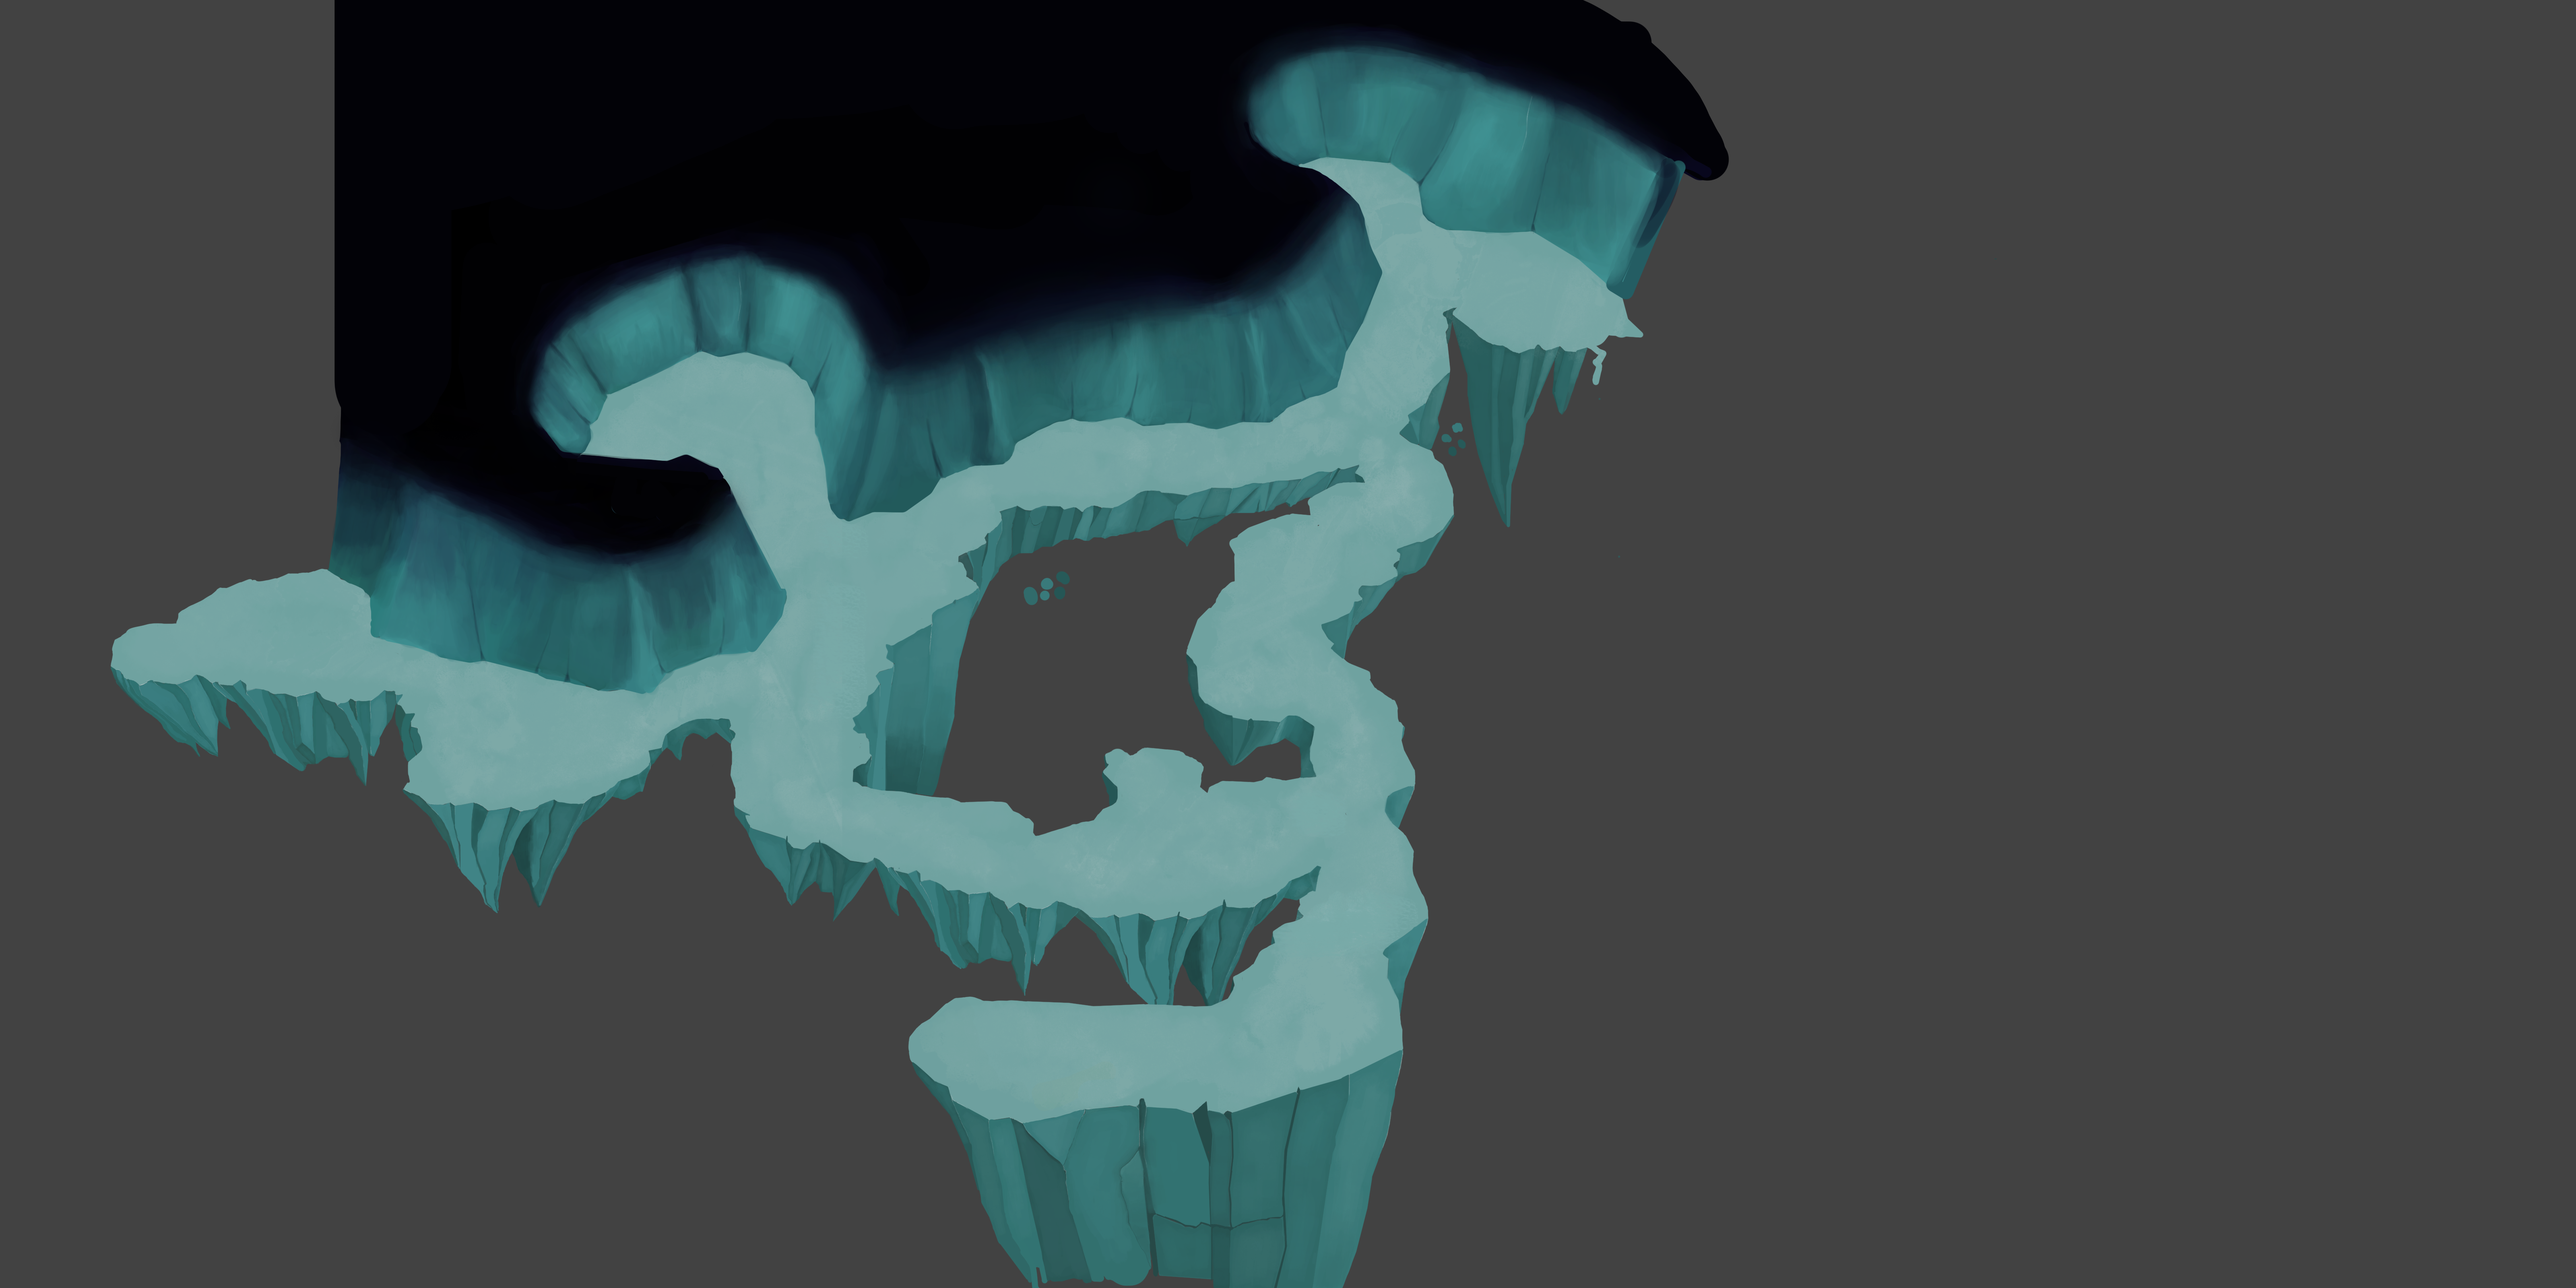
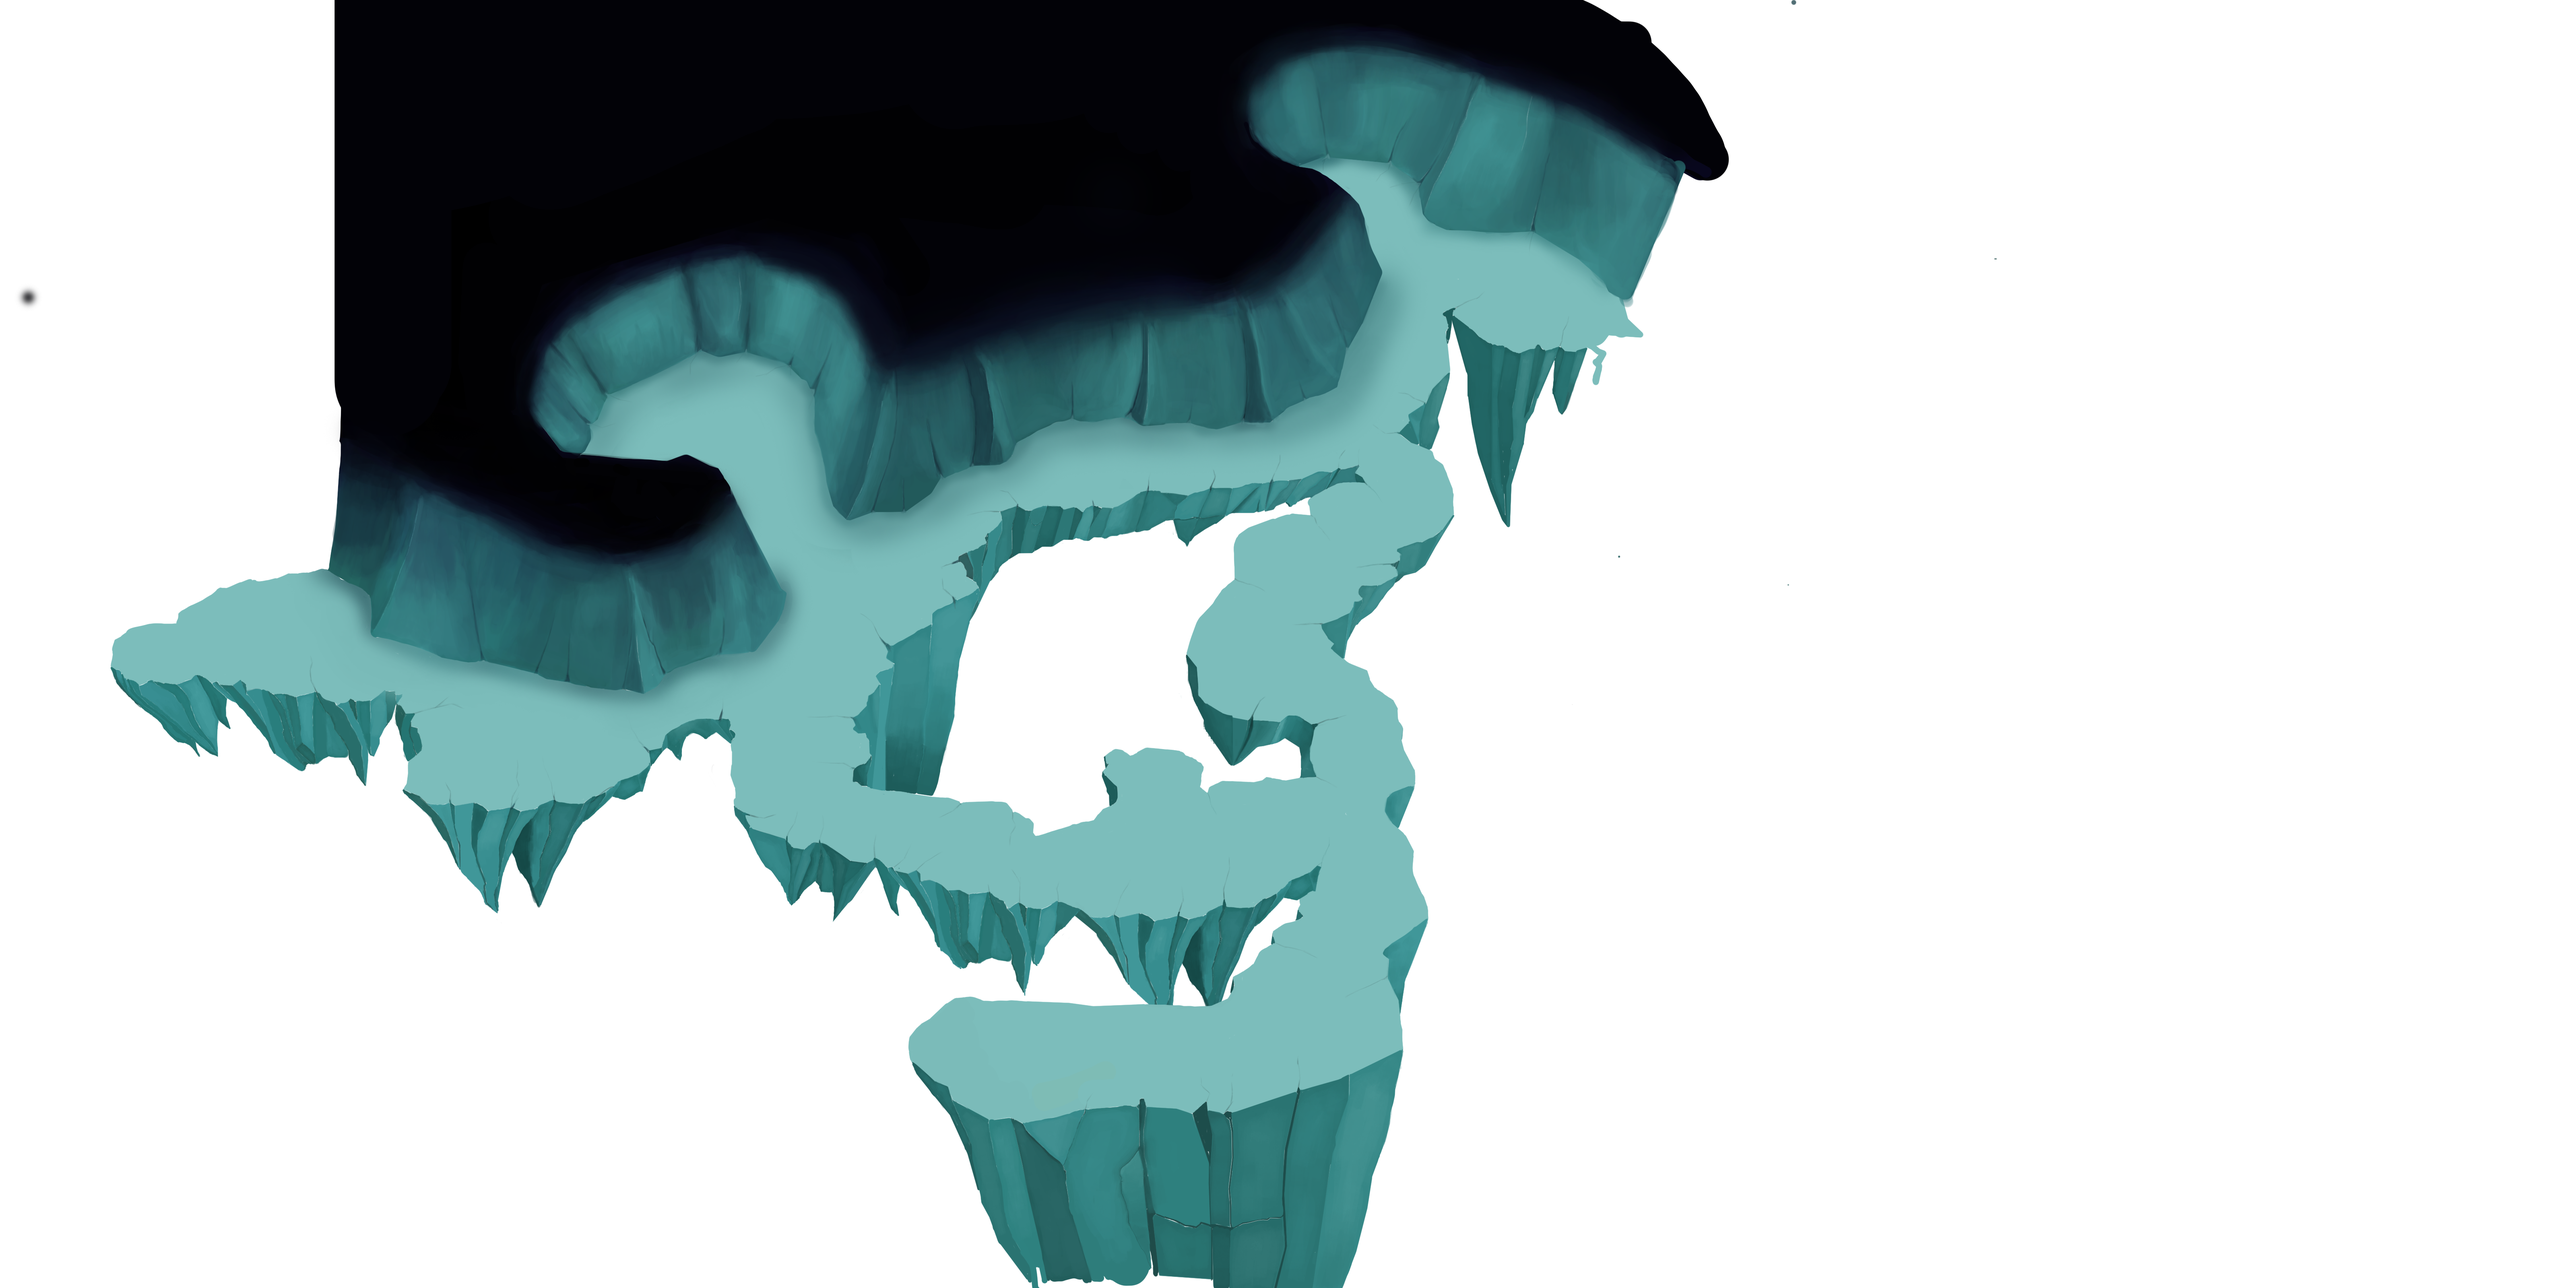
Backgrounds (scroll bug)

diff --git a/WinterDreams/LoadingState.cpp b/WinterDreams/LoadingState.cpp
@@ -160,9 +160,11 @@ static void loadSubLevel(const std::string& subLevelName, LevelState* levelState
 		auto map = properties.get_child(NAME_LEVELSETTINGS_MAPLAYER);
 		properties.get_value<std::string>();
 		auto& mlFilename = properties.get<std::string>(NAME_LEVELSETTINGS_MAPLAYER);
+		auto& bkFilename = properties.get<std::string>("background");
 		
 //		auto bgTexture_sp = resMgr.getTexture(bgFilename);
 		auto mlTexture_sp = resMgr.getTexture(FS_DIR_MAPS + mlFilename);
+		auto bkTexture_sp = resMgr.getTexture(FS_DIR_BACKGROUNDS + bkFilename);
 
 		auto yTiles = levelData.get<int>("height");
 
@@ -172,9 +174,10 @@ static void loadSubLevel(const std::string& subLevelName, LevelState* levelState
 		//may need to change when switching level.
 		/*const float X_OFFSET = -0.f;*/		const float X_OFFSET = -45.f;	
 		/*const float Y_OFFSET = -0.f;*/		const float Y_OFFSET = -17.f;
-		auto mlOffset = sf::Vector2f((cosf(22.5f) * yLength) + X_OFFSET, Y_OFFSET); 
+		auto mlOffset = sf::Vector2f((cosf(22.5f) * yLength) + X_OFFSET, Y_OFFSET);
 
 		subLevel_sp->setMapTexture(mlTexture_sp, mlOffset);
+		subLevel_sp->setBackgroundTexture(bkTexture_sp, sf::Vector2f(0,0));
 //		mLoadedLevel->setBackgroundTexture(bgTexture_sp, sf::Vector2f(0, 0));
 	}
 

diff --git a/WinterDreams/SubLevel.cpp b/WinterDreams/SubLevel.cpp
@@ -117,6 +117,14 @@ void SubLevel::render() {
 	//clear window for drawing, and reset transformation matrix.
 	window.clear();
 	renderStates.transform = sf::Transform::Identity;
+	
+	//draw background
+	{
+		auto camPos = mLevelState_p->getCamera()->getPosition();
+		auto bkg = sf::Sprite(*mBackgroundTexture.first);
+		bkg.setPosition(camPos.x*0.5-window.getSize().x/2, camPos.y*0.5-window.getSize().y/2);
+		window.draw(bkg);
+	}
 
 	//draw map
 	{
